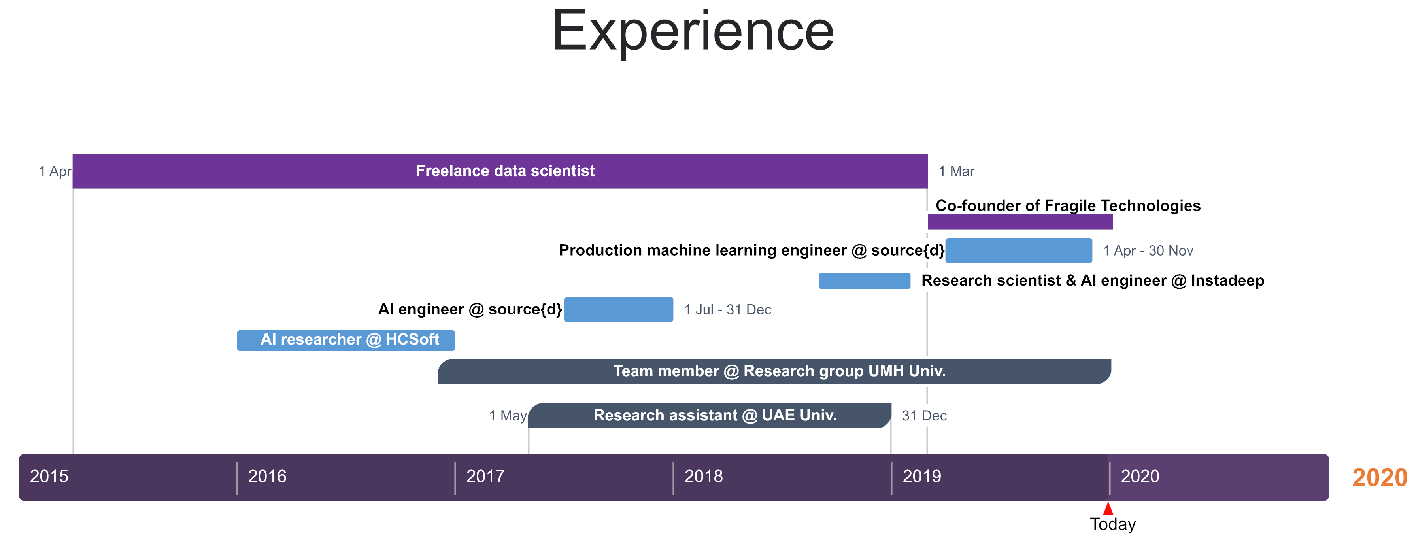
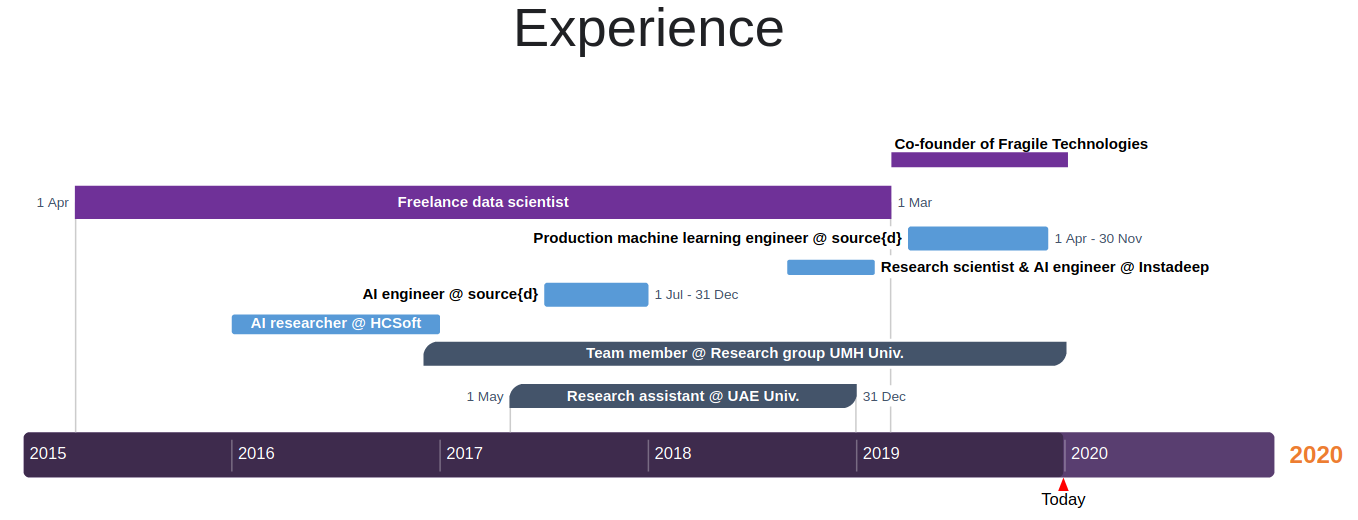
Add papers table

Changed region(s): [[0.0, 0.5231, 0.9897, 0.9846], [0.0309, 0.2462, 0.8969, 0.5538], [0.3711, 0.0, 0.5876, 0.0923]]

diff --git a/index.md b/index.md
@@ -22,12 +22,12 @@ I've enjoyed Barcelona, Murcia, Madrid, Paris, and London, but I finally settled
 <img src="images/experience.png" alt="Experience" style="max-width: 130%;">
 <br>
 <details>
-<summary><strong>Freelance  data  scientist (Apr 15 - Present)</strong></summary>
+<summary><strong>Freelance  data  scientist (Apr 15 - Mar 19)</strong></summary>
 I developed a tool to analyze and cluster the developers and repositories of an organization using their git commit history.
 </details>
 <br>
 <details>
-<summary><strong>Fragile Technologies co-founder (Apr 15 - Present)</strong> </summary>
+<summary><strong>Fragile Technologies co-founder (Mar 19 - Present)</strong> </summary>
 I developed a tool to analyze and cluster the developers and repositories of an organization using their git commit history.
 </details>
 <br>
@@ -240,4 +240,60 @@ Research assistant at University of the United Arab Emirates (Al Ain - Abu Dhabi
 
 ----
 
+Find me on [Google scholar](https://scholar.google.es/citations?hl=ca&user=xx1L5RYAAAAJ&view_op=list_works&gmla=AJsN-F7et6TNmz2cKVuBQk-tBNnHA2OIj5WmyzAJcUrETa_9tup1w0aLtv0bU-aPFyUiY6GXiv9-oieJ8TwQA5uywUVBiJp4ij7nJcSunnMdQQmsxfmB1Dp4OdyR7OrcsL9nBZWg9hSH22IHShS1gB6V10Vj92SA4iouIUwvzBlKiQOj_Zo04xY).
+
 <img src="images/papers.png" alt="Papers" style="max-width: 130%;">
+<br>
+<style type="text/css">
+.tg  {border-collapse:collapse;border-spacing:0;}
+.tg td{font-family:Arial, sans-serif;font-size:14px;padding:10px 5px;border-style:solid;border-width:1px;overflow:hidden;word-break:normal;border-color:black;}
+.tg th{font-family:Arial, sans-serif;font-size:14px;font-weight:normal;padding:10px 5px;border-style:solid;border-width:1px;overflow:hidden;word-break:normal;border-color:black;}
+.tg .tg-0lax{text-align:left;vertical-align:top}
+</style>
+<table class="tg">
+  <tr>
+    <th class="tg-0lax">Name</th>
+    <th class="tg-0lax">Published</th>
+    <th class="tg-0lax">Date</th>
+  </tr>
+  <tr>
+    <td class="tg-0lax">Generalized TCP-RED dynamical model for Internet congestion control</td>
+    <td class="tg-0lax">Communications in Nonlinear Science and Numerical Simulation 82, 105075</td>
+    <td class="tg-0lax">March 2020</td>
+  </tr>
+  <tr>
+    <td class="tg-0lax">Bifurcation analysis for the Internet congestion</td>
+    <td class="tg-0lax">IEEE INFOCOM 2019-IEEE Conference on Computer Communications Workshops (INFOCOM WKSHPS)</td>
+    <td class="tg-0lax">April 2019</td>
+  </tr>
+  <tr>
+    <td class="tg-0lax">Stabilizing Chaotic Behavior of RED</td>
+    <td class="tg-0lax">2018 IEEE 26th International Conference on Network Protocols (ICNP), 241-242</td>
+    <td class="tg-0lax">September 2018</td>
+  </tr>
+  <tr>
+    <td class="tg-0lax">T-NAS: Neural Architecture Search with MCTS and shared parameters</td>
+    <td class="tg-0lax">Deep learning Indaba conference</td>
+    <td class="tg-0lax">September 2018</td>
+  </tr>
+  <tr>
+    <td class="tg-0lax">Solving Atari Games Using Fractals And Entropy</td>
+    <td class="tg-0lax">Arxiv</td>
+    <td class="tg-0lax">July 2018</td>
+  </tr>
+  <tr>
+    <td class="tg-0lax">Fractal AI: A fragile theory of intelligence</td>
+    <td class="tg-0lax">Arxiv</td>
+    <td class="tg-0lax">March 2018</td>
+  </tr>
+  <tr>
+    <td class="tg-0lax">Happiness an inside Job? Turnover prediction from likeability, engament and relative happiness</td>
+    <td class="tg-0lax">Proceedings of the 2017 IEEE/ACM International Conference on Advances in Social Networks Analysis and Mining 2017</td>
+    <td class="tg-0lax">July 2017</td>
+  </tr>
+  <tr>
+    <td class="tg-0lax">General Algorithmic Search</td>
+    <td class="tg-0lax">Arxiv</td>
+    <td class="tg-0lax">May 2017</td>
+  </tr>
+</table>
